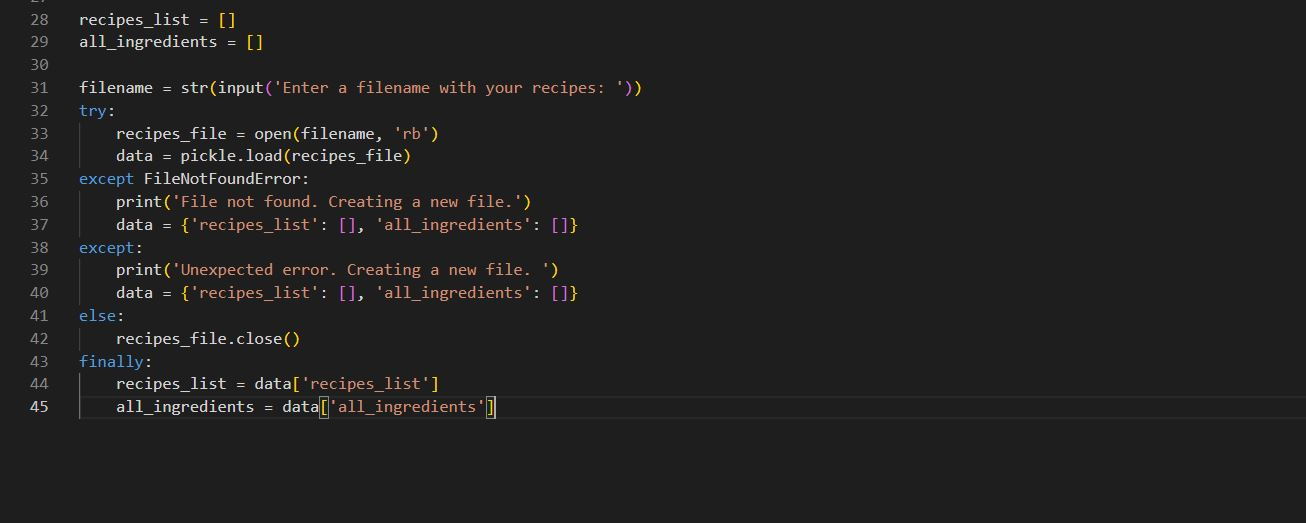
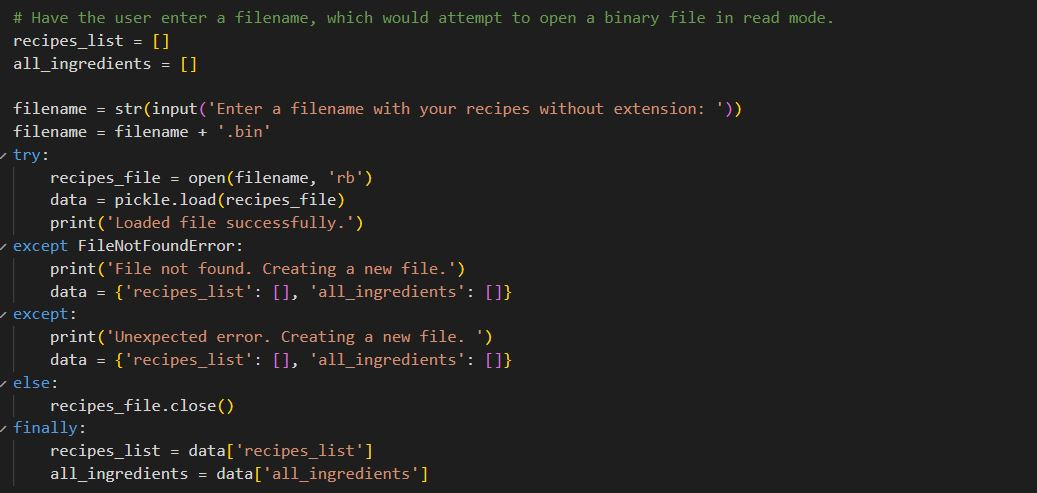
Add Handling NameError

Changed region(s): [[0.0, 0.0304, 0.8023, 0.9736], [0.432, 0.426, 0.4629, 0.4564], [0.4012, 0.3955, 0.432, 0.426]]

diff --git a/Exercise1.4/Part1/recipe_input.py b/Exercise1.4/Part1/recipe_input.py
@@ -2,38 +2,48 @@
 import pickle
 
 # Define a function called take_recipe() to take recipes from the user
+
+
 def take_recipe():
     name = str(input('Enter the name of the recipe: '))
     cooking_time = int(
         input('Enter the cooking time of the recipe in minutes: ')
     )
-    ingredients = input('Enter the ingredients of the recipe, separated by a space: ')
+    ingredients = input(
+        'Enter the ingredients of the recipe, separated by a space: ')
     ingredients = ingredients.split()
     ingredients = [ingredient.lower() for ingredient in ingredients]
     difficulty = calc_difficulty(cooking_time, ingredients)
-    recipe = {'name': name, 'cooking_Time': cooking_time, 'ingredients': ingredients, 'difficulty': difficulty}
+    recipe = {'name': name, 'cooking_Time': cooking_time,
+              'ingredients': ingredients, 'difficulty': difficulty}
     return recipe
 
 # Define the function calc_diffficulty(), where the difficulty is returned as Easy, Medium, Intermediate or Hard
-def calc_difficulty(cooking_time, ingredients): # takes params cooking_time and ingredients
-        if (cooking_time < 10) and (len(ingredients) < 4):
-            difficulty = 'Easy'
-        elif (cooking_time < 10) and (len(ingredients) >= 4):
-            difficulty = 'Medium'
-        elif (cooking_time >= 10) and (len(ingredients) < 4):
-            difficulty = 'Intermediate'
-        elif (cooking_time >= 10) and (len(ingredients) >= 4):
-            difficulty = 'Hard'
-        else:
-            print('Something bad happened, please try again')
-        
-        return difficulty
+# takes params cooking_time and ingredients
+
+
+def calc_difficulty(cooking_time, ingredients):
+    difficalty = None
+    if (cooking_time < 10) and (len(ingredients) < 4):
+        difficulty = 'Easy'
+    elif (cooking_time < 10) and (len(ingredients) >= 4):
+        difficulty = 'Medium'
+    elif (cooking_time >= 10) and (len(ingredients) < 4):
+        difficulty = 'Intermediate'
+    elif (cooking_time >= 10) and (len(ingredients) >= 4):
+        difficulty = 'Hard'
+    else:
+        print('Something bad happened, please try again')
+
+    return difficulty
+
 
 # Have the user enter a filename, which would attempt to open a binary file in read mode.
 recipes_list = []
 all_ingredients = []
 
-filename = str(input('Enter a filename with your recipes: '))
+filename = str(input('Enter a filename with your recipes without extension: '))
+filename = filename + '.bin'
 try:
     recipes_file = open(filename, 'rb')
     data = pickle.load(recipes_file)
@@ -64,7 +74,5 @@ for i in range(num):
     recipes_list.append(recipe)
 
 # Open a binary file with the user-defined filename and write data to it using the pickle module.
-new_file_name = str(input('Enter a name for the new file.'))
-new_file_name = open(new_file_name, 'wb')
-data = data + '.bin'
-pickle.dump(data, new_file_name)
+filename = open(filename, 'wb')
+pickle.dump(data, filename)
